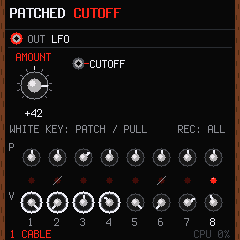
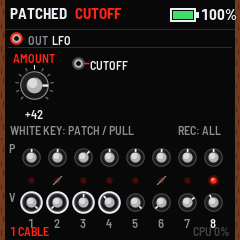
Schärfere GUI: geglättete Schrift (Barlow Semi Condensed) und kantengeglättete Regler, Zeiger, LEDs, Schalter
Claude-Session: https://claude.ai/code/session_019gwqiQtDQMDhbyr4rsBLLJ

diff --git a/app.c b/app.c
@@ -649,60 +649,119 @@ static void wood(int32_t h, int32_t y0)  /* die Holzwangen, mit Maserung (fest a
     }
 }
 
-static void disc(int32_t cx, int32_t cy, int32_t r, uint16_t c)
+/* ---- geglättetes Zeichnen: das Display hat feste 240 x 240 Pixel, also bekommen Kanten Zwischentöne statt
+ *      Treppen (jedes Randpixel mischt die Farbe nach dem Anteil, den die Form von ihm bedeckt) ---- */
+static inline void aa_px(int32_t x, int32_t y, uint16_t c, int32_t a)   /* a 0..256 */
 {
-    int32_t dy;
-    for (dy = -r; dy <= r; dy++) {
-        int32_t w = 0;
-        while ((w + 1) * (w + 1) + dy * dy <= r * r)
-            w++;
-        cv_rect(cx - w, cy + dy, 2 * w + 1, 1, c);
+    uint32_t i, d, r, g, b;
+    if (a <= 0)
+        return;
+    y += cv_oy;
+    if ((uint32_t)x >= cv_w || y < cv_y0 || y >= cv_y1)
+        return;
+    i = (uint32_t)y * cv_w + (uint32_t)x;
+    if (a >= 256) {
+        cv_px[i] = swap16(c);
+        return;
     }
+    d = swap16(cv_px[i]);
+    r = (((c >> 11) & 31u) * (uint32_t)a + ((d >> 11) & 31u) * (uint32_t)(256 - a)) >> 8;
+    g = (((c >> 5) & 63u) * (uint32_t)a + ((d >> 5) & 63u) * (uint32_t)(256 - a)) >> 8;
+    b = ((c & 31u) * (uint32_t)a + (d & 31u) * (uint32_t)(256 - a)) >> 8;
+    cv_px[i] = swap16((r << 11) | (g << 5) | b);
 }
 
-/* ein Regler: Skala (11 Striche über 270°), schwarzer Körper, Silberkappe, weißer Zeiger. v 0..1 */
+/* eine Kreisfläche (Mittelpunkt und Radius in Pixeln, auch krumm), alpha 0..256 */
+static void aa_disc_a(float cx, float cy, float r, uint16_t c, int32_t alpha)
+{
+    int32_t x, y, x0 = (int32_t)(cx - r - 1.0f), x1 = (int32_t)(cx + r + 2.0f);
+    int32_t y0 = (int32_t)(cy - r - 1.0f), y1 = (int32_t)(cy + r + 2.0f);
+    float in2 = (r - 0.5f) * (r - 0.5f), out2 = (r + 0.5f) * (r + 0.5f);
+    if (r < 0.5f)
+        in2 = 0.0f;
+    for (y = y0; y <= y1; y++) {
+        float dy = (float)y - cy;
+        for (x = x0; x <= x1; x++) {
+            float dx = (float)x - cx, d2 = dx * dx + dy * dy;
+            if (d2 >= out2)
+                continue;
+            if (d2 <= in2)
+                aa_px(x, y, c, alpha);
+            else
+                aa_px(x, y, c, (int32_t)((r + 0.5f - fm_sqrtf(d2)) * (float)alpha));
+        }
+    }
+}
+static void aa_disc(float cx, float cy, float r, uint16_t c) { aa_disc_a(cx, cy, r, c, 256); }
+
+/* eine Linie mit runden Enden, w Pixel breit */
+static void aa_line(float x0, float y0, float x1, float y1, float w, uint16_t c)
+{
+    float dx = x1 - x0, dy = y1 - y0, l2 = dx * dx + dy * dy, h = w * 0.5f;
+    int32_t x, y, bx0 = (int32_t)(fm_minf(x0, x1) - h - 1.0f), bx1 = (int32_t)(fm_maxf(x0, x1) + h + 2.0f);
+    int32_t by0 = (int32_t)(fm_minf(y0, y1) - h - 1.0f), by1 = (int32_t)(fm_maxf(y0, y1) + h + 2.0f);
+    for (y = by0; y <= by1; y++)
+        for (x = bx0; x <= bx1; x++) {
+            float px = (float)x - x0, py = (float)y - y0, t = l2 > 0.0f ? (px * dx + py * dy) / l2 : 0.0f, ex, ey, d;
+            t = fm_clampf(t, 0.0f, 1.0f);
+            ex = px - t * dx;
+            ey = py - t * dy;
+            d = fm_sqrtf(ex * ex + ey * ey);
+            if (d < h + 0.5f)
+                aa_px(x, y, c, (int32_t)(fm_clampf(h + 0.5f - d, 0.0f, 1.0f) * 256.0f));
+        }
+}
+
+static void disc(int32_t cx, int32_t cy, int32_t r, uint16_t c) { aa_disc((float)cx, (float)cy, (float)r + 0.3f, c); }
+
+/* ein Regler: Skala (11 Striche über 270°), schwarzer Körper mit Rand, Silberkappe mit Glanz, weißer Zeiger. v 0..1 */
 static void moog_knob(int32_t cx, int32_t cy, int32_t r, float v, int hot, int bip, int ticks)
 {
-    int32_t i, cap = r * 11 / 20;
-    float a, sn, cs;
+    int32_t i;
+    float a, sn, cs, fx = (float)cx, fy = (float)cy, fr = (float)r + 0.3f, cap = fr * 0.55f;
     if (ticks)
         for (i = 0; i <= 10; i++) {
+            float r0 = fr + 2.2f, r1 = fr + (i == 5 && bip ? 5.6f : 4.6f);
             a = (-135.0f + 27.0f * (float)i) * 0.017453293f;
             sn = fm_sinf(a);
             cs = fm_cosf(a);
-            cv_line(cx + (int32_t)(sn * (float)(r + 2)), cy - (int32_t)(cs * (float)(r + 2)),
-                    cx + (int32_t)(sn * (float)(r + (i == 5 && bip ? 5 : 4))),
-                    cy - (int32_t)(cs * (float)(r + (i == 5 && bip ? 5 : 4))), i == 5 && bip ? C_LABEL : C_TICK);
+            aa_line(fx + sn * r0, fy - cs * r0, fx + sn * r1, fy - cs * r1, 1.1f, i == 5 && bip ? C_LABEL : C_TICK);
         }
-    disc(cx, cy, r, hot ? C_SUB : C_KEDGE);
-    disc(cx, cy, r - 1, C_KBODY);
+    aa_disc(fx, fy, fr, hot ? C_SUB : C_KEDGE);
+    aa_disc(fx, fy, fr - 1.2f, C_KBODY);
+    aa_disc_a(fx - fr * 0.2f, fy - fr * 0.25f, fr * 0.75f, RGB(60, 60, 66), 70);   /* ein Hauch Licht auf dem Rock */
     a = (-135.0f + 270.0f * fm_clampf(v, 0.0f, 1.0f)) * 0.017453293f;
     sn = fm_sinf(a);
     cs = fm_cosf(a);
-    for (i = cap + 1; i < r; i++) {      /* der Zeiger auf dem Rock, zwei Pixel breit */
-        int32_t px = cx + (int32_t)(sn * (float)i), py = cy - (int32_t)(cs * (float)i);
-        cv_rect(px, py, 2, 2, C_LABEL);
-    }
-    disc(cx, cy, cap, C_SILVER);
-    disc(cx - cap / 3, cy - cap / 3, cap / 2, C_SILVER_HI);
+    aa_line(fx + sn * (cap + 1.0f), fy - cs * (cap + 1.0f), fx + sn * (fr - 1.6f), fy - cs * (fr - 1.6f),
+            r >= 12 ? 2.4f : 1.8f, C_LABEL);   /* der Zeiger auf dem Rock */
+    aa_disc(fx, fy, cap, C_SILVER);
+    aa_disc_a(fx - cap * 0.25f, fy - cap * 0.3f, cap * 0.62f, C_SILVER_HI, 200);
 }
 
 /* ein Kippschalter: Mutter, Hebel nach oben (an) oder unten, die zwei Namen */
 static void toggle(int32_t cx, int32_t cy, int on, const char *up, const char *dn, int hot)
 {
+    float fx = (float)cx, fy = (float)cy, tip = on ? fy - 11.0f : fy + 11.0f;
     ctext(cx, cy - 24, &FONT_XS, up, on ? C_LABEL : C_SUB);
     ctext(cx, cy + 13, &FONT_XS, dn, on ? C_SUB : C_LABEL);
-    disc(cx, cy, 6, hot ? C_SUB : C_KEDGE);
-    disc(cx, cy, 4, C_SILVER);
-    cv_rect(cx - 1, on ? cy - 10 : cy, 3, 11, C_SILVER_HI);
-    disc(cx, on ? cy - 11 : cy + 11, 2, C_SILVER_HI);
+    aa_disc(fx, fy, 6.3f, hot ? C_SUB : C_KEDGE);
+    aa_disc(fx, fy, 4.3f, C_SILVER);
+    aa_line(fx, fy, fx, tip, 3.0f, C_SILVER_HI);
+    aa_disc(fx, tip, 2.4f, C_SILVER_HI);
 }
 
+/* eine LED: aus dunkelrot, an hell mit einem Hof und einem Glanzpunkt */
 static void led(int32_t cx, int32_t cy, int on)
 {
-    disc(cx, cy, 3, on ? C_LED : C_LED_DIM);
-    if (on)
-        cv_rect(cx - 1, cy - 2, 2, 1, RGB(255, 170, 160));
+    float fx = (float)cx, fy = (float)cy;
+    if (on) {
+        aa_disc_a(fx, fy, 5.5f, C_LED, 60);
+        aa_disc(fx, fy, 3.3f, C_LED);
+        aa_disc_a(fx - 0.8f, fy - 1.0f, 1.2f, RGB(255, 200, 190), 220);
+    } else {
+        aa_disc(fx, fy, 3.3f, C_LED_DIM);
+    }
 }
 
 /* ein Regler, der gerade nichts zu tun hat, sagt, woran es liegt (statt stumm zu bleiben) */
@@ -837,7 +896,7 @@ static void draw_patch(uint32_t now)
         x = 78 + (n / 4) * 80;
         y = 28 + (n % 4) * 15;
         jack(x, y + 5, 0);
-        cv_line(x + 6, y + 5, x + 10, y + 5, C_LED);
+        aa_line((float)x + 6.0f, (float)y + 5.0f, (float)x + 10.0f, (float)y + 5.0f, 1.6f, C_LED);
         cv_text(x + 12, y, &FONT_XS, RND_DST_NAME[c->dst], C_LABEL);
         n++;
     }
@@ -925,7 +984,7 @@ static void draw_steps(int32_t s)
         moog_knob(cx, 17, 9, st->pitch, held, 1, 0);
         led(cx, 40, cur && on);
         if (!on)                         /* Velocity 0: der Step schweigt, die LED durchgestrichen */
-            cv_line(cx - 4, 44, cx + 4, 36, C_SUB);
+            aa_line((float)cx - 4.0f, 44.0f, (float)cx + 4.0f, 36.0f, 1.2f, C_SUB);
         moog_knob(cx, 62, 9, st->vel, held, 0, 0);
         n[0] = (char)('1' + i);
         n[1] = 0;
@@ -942,14 +1001,14 @@ static void draw_steps(int32_t s)
             text_cat(t, " D");
             int_text((int32_t)plat_xruns(), t + txt_len(t));
         }
-        cv_text(230 - text_w(&FONT_XS, t), 88, &FONT_XS, t, plat_cpu_pct() > 80u ? C_LED : RGB(70, 70, 76));
+        cv_text(230 - text_w(&FONT_XS, t), 84, &FONT_XS, t, plat_cpu_pct() > 80u ? C_LED : RGB(70, 70, 76));
         if (eng.v.ncab) {                /* gesteckte Kabel */
             char c[12] = "";
             int_text(eng.v.ncab, c);
             text_cat(c, eng.v.ncab == 1 ? " CABLE" : " CABLES");
-            cv_text(10, 88, &FONT_XS, c, C_LED);
+            cv_text(10, 84, &FONT_XS, c, C_LED);
         } else {
-            cv_text(10, 88, &FONT_XS, "KEYS: PATCHBAY", RGB(70, 70, 76));
+            cv_text(10, 84, &FONT_XS, "KEYS: PATCHBAY", RGB(70, 70, 76));
         }
     }
 }

diff --git a/README.md b/README.md
@@ -104,7 +104,7 @@ Settings save themselves once the sequencer stops.
 ## Building
 
     git clone --recursive https://github.com/swtdr34mz-afk/RAND
-    X0X_FONTSET=terminus python3 fm1-base/tools/build.py . --host
+    X0X_FONTSET=barlow python3 fm1-base/tools/build.py . --host
     build/host/rand_host tests/basic.txt build/host
 
 GitHub Actions builds the installable `.fwsc` on every push (Actions tab > the run > Artifacts). A tag `v0.1.0` makes a
